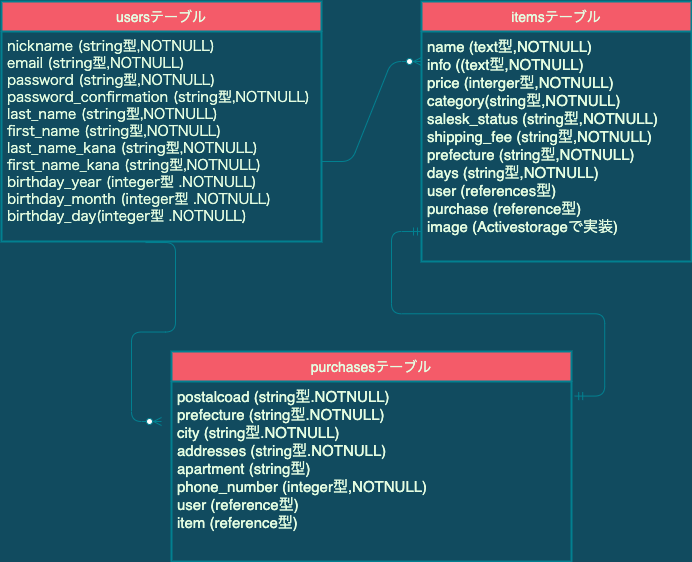
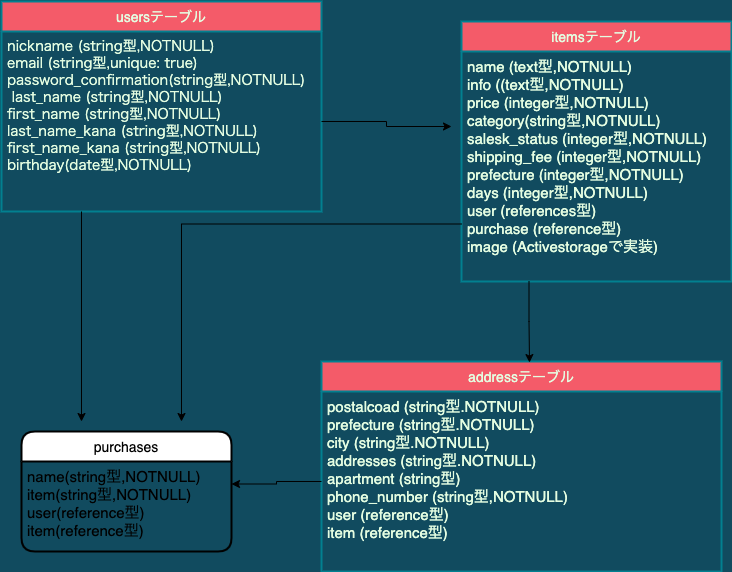
データベース設計

diff --git a/README.md b/README.md
@@ -4,54 +4,68 @@
 |Column|Type|Options|
 |------------------------|-----------| ------------|
 |nickname                |  string   | null: false |
-|email                   |  string   | null: false |
+|email                   |  string   | unique: true|
 |password                |  string   | null: false |
 |password_confirmation   |  string   | null: false |
 |last_name               |  string   | null: false | 
 |fast_name               |  string   | null: false |
 |last_name_kana          |  string   | null: false |
 |fast_name_kana          |  string   | null: false |
-|birthday_year           |  integer  | null: false |
-|birthday_month          |  integer  | null: false |
-|birthday_day            |  integer  | null: false |
+|birthday                |  date     | null: false |
 
 
 ### Association
 - has_many :items
 - has_many :purchases
+- has_one :address
 
 
 ## items テーブル
 
-|     Column      |  Type     |   Options   |
-|---------------- |-----------|-----------  |
-| name            |  text     | null: false |
-| info            |  text     | null: false |
-| category        | string    | null: false |
-| salesk_status   | string    | null: false |
-| shipping_fee    | string    | null: false | 
-| price           | string    | null: false |
-| days            | string    | null: false |          
-
-
+|     Column      |  Type     |   Options        |
+|---------------- |-----------|-----------       |
+| name            | integer   | null: false      |
+| info            | text      | null: false      |
+| category        | string    | null: false      |
+| salesk_status   | integer   | null: false      |
+| shipping_fee    | integer   | null: false      | 
+| prefecture      | integer   | null: false      |
+| days            | integer   | null: false      |          
+| price           | integer   | null: false      |
+| user            | references|foreign_key: true |
 ### Association
 
 - belongs_to :user
 - has_one    :purchase
+- has_one    :address 
 
+## address テーブル
 
-## purchases テーブル
-
-|     Column      |  Type     |   Options   |
-|---------------- |-----------|-----------  |
-| postalcoad      |  string   | null: false | 
-| prefecture      |  string   | null: false |
-| city            |  string   | null: false | 
-| addresses       |  string   | null: false |
-|apartment        |  string   |             |
-|phon_number      |  integer  | null: false |
+|     Column       |  Type     |   Options   |
+|----------------  |-----------|-----------  |
+| postalcoad       |  string   | null: false | 
+| prefecture       |  string   | null: false |
+| city             |  string   | null: false | 
+| addresses        |  string   | null: false |
+| apartment        |  string   |             |
+| phon_number      |  string   | null: false |
  
 
 ### Association 
 - belongs_to :user
-- belongs_to ;item
+- belongs_to :items
+- has_one :purchases
+
+
+## purchases テーブル
+|     Column       |  Type     |   Options        |
+|----------------  |-----------|----------------- |
+| name             | string    | null: false      |
+| item             | string    | null: false      |
+| user             | references|foreign_key: true |
+| item             | references|foreign_key: true |
+
+### Association 
+- belongs_to :user
+- belongs_to :user
+- belongs_to :address 
